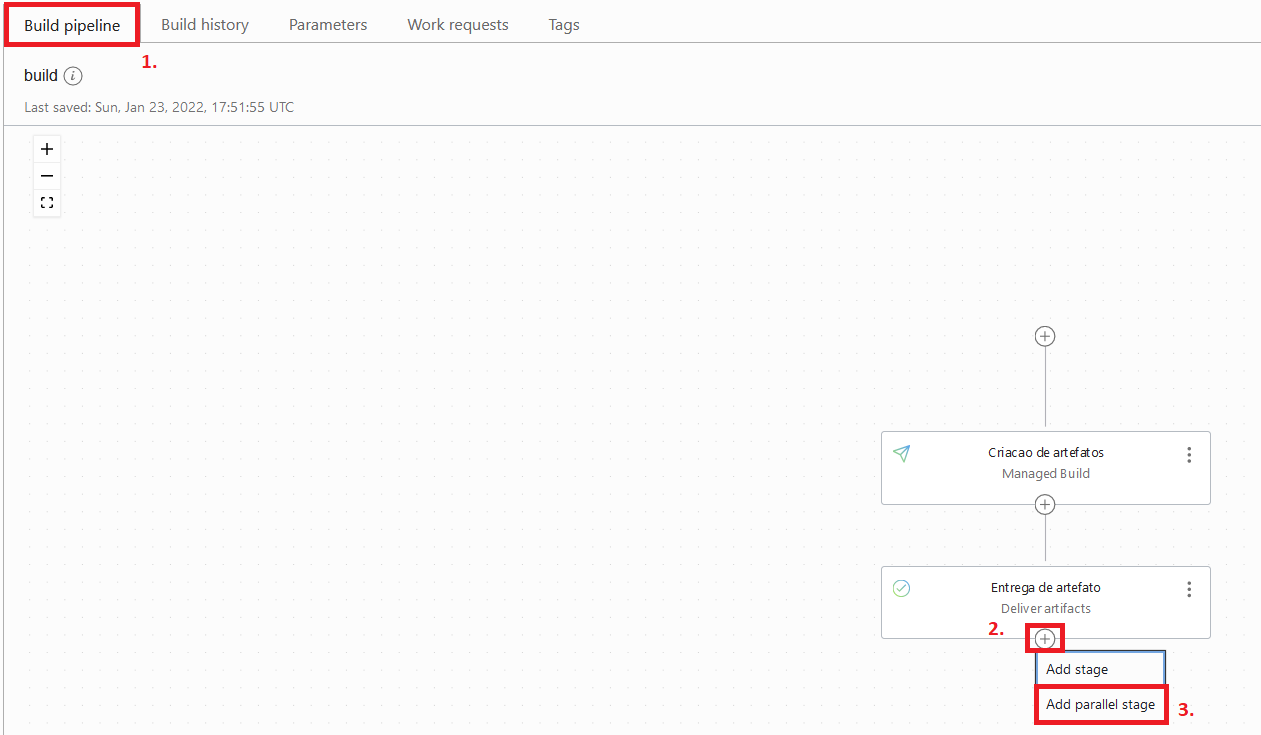
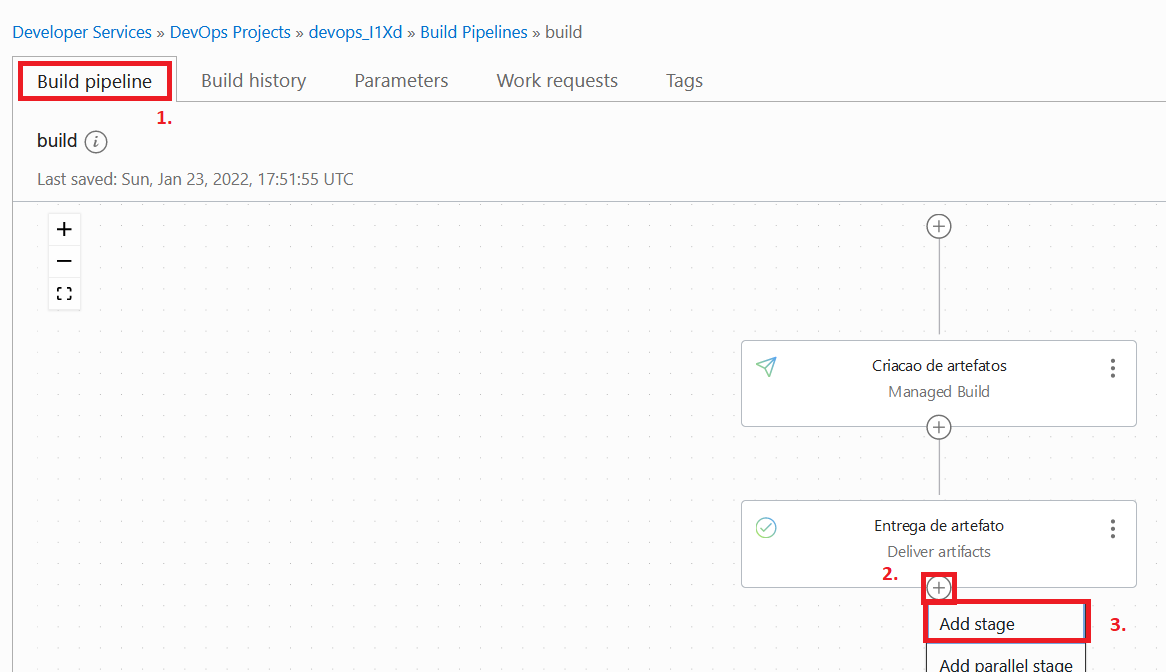
finalizacao de projeto

diff --git a/4 - Running a containerized application on OCI/Tutorial.md b/4 - Running a containerized application on OCI/Tutorial.md
@@ -237,10 +237,10 @@ Com isso cumprimos todos os pré requisitos para o laboratório:
 
 
  4. Clique em **Adicionar**
- 5. Na aba de Build Pipeline, clique no sinal de **"+"** abaixo do stage **Entrega de artefato** e em **Add Parallel Stage**
+ 5. Na aba de Build Pipeline, clique no sinal de **"+"** abaixo do stage **Entrega de artefato** e em **Add Stage**
  6. Clique em **Deliver Artifacts** e em **Próximo**
      
-    ![](./IMG/028-LAB4.png)
+    ![](./IMG/031-LAB4.png)
 
  7. Preencha o formulário da seguinte forma:
  - Stage name: Entrega de Image de Container
@@ -248,7 +248,7 @@ Com isso cumprimos todos os pré requisitos para o laboratório:
  - Selecione **Criar Artefato**
    - Nome: backend_img
    - Tipo: Container image repository
-   - Artifact Source: `<código-de-região>.ocir.io/'${IMG_PATH}:${BUILDRUN_HASH}`
+   - Artifact Source: `<código-de-região>.ocir.io/${IMG_PATH}`
    
    *para o código de referencia de sua região **composto por 3 letras**, utilize a [tabela de referencia](https://docs.oracle.com/en-us/iaas/Content/General/Concepts/regions.htm)*
        
@@ -269,9 +269,21 @@ Isso conclui o passo de Build do projeto, onde automatizamos a compilação do c
 ## <a name="Passo4"></a> Passo 4: Criar e configurar entrega de aplicação a cluster Kubernetes (CD)
 
  1. Acesse: Menu > Serviços de Desenvolvedor > Kubernetes Clusters
+        
+    ![](./IMG/035-LAB4.png)
+
  2. Selecione o cluster listado
+        
+    ![](./IMG/036-LAB4.png)
+
  3. Clique em **Access Cluster**
+        
+    ![](./IMG/037-LAB4.png)
+
  4. Execute os passos 1 e 2 do guia
+        
+    ![](./IMG/038-LAB4.png)
+
  5. Teste sua conexão com o cluster executando:
 
   ```shell
@@ -289,9 +301,18 @@ Isso conclui o passo de Build do projeto, onde automatizamos a compilação do c
  7. Informe o seu User OCID (https://docs.oracle.com/pt-br/iaas/Content/API/Concepts/apisigningkey.htm#five)
  8. No campo de password, informe o **Auth Token**
  9. Aguarde o final do fluxo
+        
+    ![](./IMG/039-LAB4.png)
+
  10. Retorne ao projeto: Menu > Serviços de Desenvolvedor > DevOps > Projetos,  e selecione o projeto deste workshop
  11. No canto esquerdo, selecione **Environments**
+         
+![](./IMG/040-LAB4.png)
+
  12. Clique em **Create New Environment**
+          
+![](./IMG/041-LAB4.png)
+
  13. Preencha o formulário da seguinte forma:
   - Environment type: Oracle Kubernetes Engine
   - Name: OKE
@@ -299,6 +320,9 @@ Isso conclui o passo de Build do projeto, onde automatizamos a compilação do c
  14. Clique em **Next**
  15. Selecione o Cluster de Kubernetes, e clique em **Create Envrinoment**
  16. No canto esquerdo selecione **Artifacts** em seguida em **Add Artifact**
+          
+![](./IMG/042-LAB4.png)
+
  17. Preencha o formulario da seguinte forma:
  - Nome: deployment.yaml
  - Tipo: Kubernetes manifest
@@ -307,23 +331,83 @@ Isso conclui o passo de Build do projeto, onde automatizamos a compilação do c
  *Não altere a identação (espaços) do documento, pois isso pode quebra-lo*
  - Replace parameters used in this artifact: Yes, substitute placeholders
  - Clique em **Add**
+          
+![](./IMG/043-LAB4.png)
+
  18. No canto esquerdo, selecione **Developer Pipelines** em seguida clique em **Create Pipeline**
+          
+![](./IMG/044-LAB4.png)
+
  19. Preencha o formulario da seguinte forma:
  - Pipeline name: deploy
  - Descrição: (Defina uma descrição qualquer)
  - Clique em **Create**
+          
+![](./IMG/048-LAB4.png)
+
  20. Na Aba de **Parameters** configure o seguinte parametro:
  - REGISTRY_REGION:  <código-de-região>.ocir.io  
  *para o código de referencia de sua região **composto por 3 letras**, utilize a [tabela de referencia](https://docs.oracle.com/en-us/iaas/Content/General/Concepts/regions.htm)*
+          
+![](./IMG/049-LAB4.png)
+
  21. Retorne a aba de **Pipeline** e clique em **Add Stage**
+          
+![](./IMG/050-LAB4.png)
+
  22. Selecione a Opção **Apply Manifest to your Kubernetes Cluster** e clique em **Next**
+          
+![](./IMG/051-LAB4.png)
+
  23. Preencha o formulário da seguinte forma:
  - Nome: **Deployment da Aplicacao**
  - Descrição: (Defina uma Descrição qualquer)
  - Environment: OKE
  - Clique em **Select Artifact** e selecione **deployment.yaml**
  - Clique em **Add**
+          
+![](./IMG/052-LAB4.png)
+
  
  Com isso finalizamos a parte de deployment, no passo a seguir vamos conectar ambos os pipelines, e definir um gatilho para que o processo automatizado se inicie
+
+ ## <a name="Passo5"></a> Passo 5: Configurar gatilho do fluxo e conectar pipelines de CI/CD
+
+  1. Retorne ao projeto: Menu > Serviços de Desenvolvedor > DevOps > Projetos,  e selecione o projeto deste workshop
+  2. No canto esquerdo selecione **Triggers** e em seguida **Create Trigger**
+  ![](./IMG/053-LAB4.png)
+  3. Preencha da seguinte forma:
+  - Nome: Inicio
+  - Descrição: (Defina uma descrição qualquer)
+  - Source connection: OCI Code Repository
+  - Select code repository: ftRepo
+  - Actions: Add Action
+    - Pipeline: build
+    - Event: Push
+    - Source branch: main
+    - Clique em **Save**
+  - Clique em **Create**
+  ![](./IMG/054-LAB4.png)
+
+  A partir desse momento, qualquer novo push feito no repositorio do projeto iniciará o pipeline de build criado nesse workshop
+
+  4. Retorne a configuração do pipeline de build do projeto selecionando **Build Pipelines**, **build**
+  ![](./IMG/055-LAB4.png)
+  5. Na aba de Build Pipeline, clique no sinal de **"+"** abaixo do stage **Entrega de Imagem de Container** e em **Add Stage**
+  ![](./IMG/056-LAB4.png)
+  6. Selecione o item de **Trigger Deployment**, e clique em **Next**
+  ![](./IMG/057-LAB4.png)
+  7. Preencha o formulário da seguinte forma:
+  - Nome: Inicio de Deployment
+  - Descrição: (Defina uma descrição qualquer)
+  - Selecione o pipeline de deployment: deploy
+  - Mantenha os demais campos sem alteração, e clique em **Add**
+  ![](./IMG/058-LAB4.png)
+
+  Parabéns!! Voce construiu com sucesso seu primeiro pipeline de DevOps dentro de Oracle Cloud!! O passo a seguir é direcionado para validação do projeto
+
+ ## <a name="Passo6"></a> Passo 6: Execução e testes
+
+
 
 
